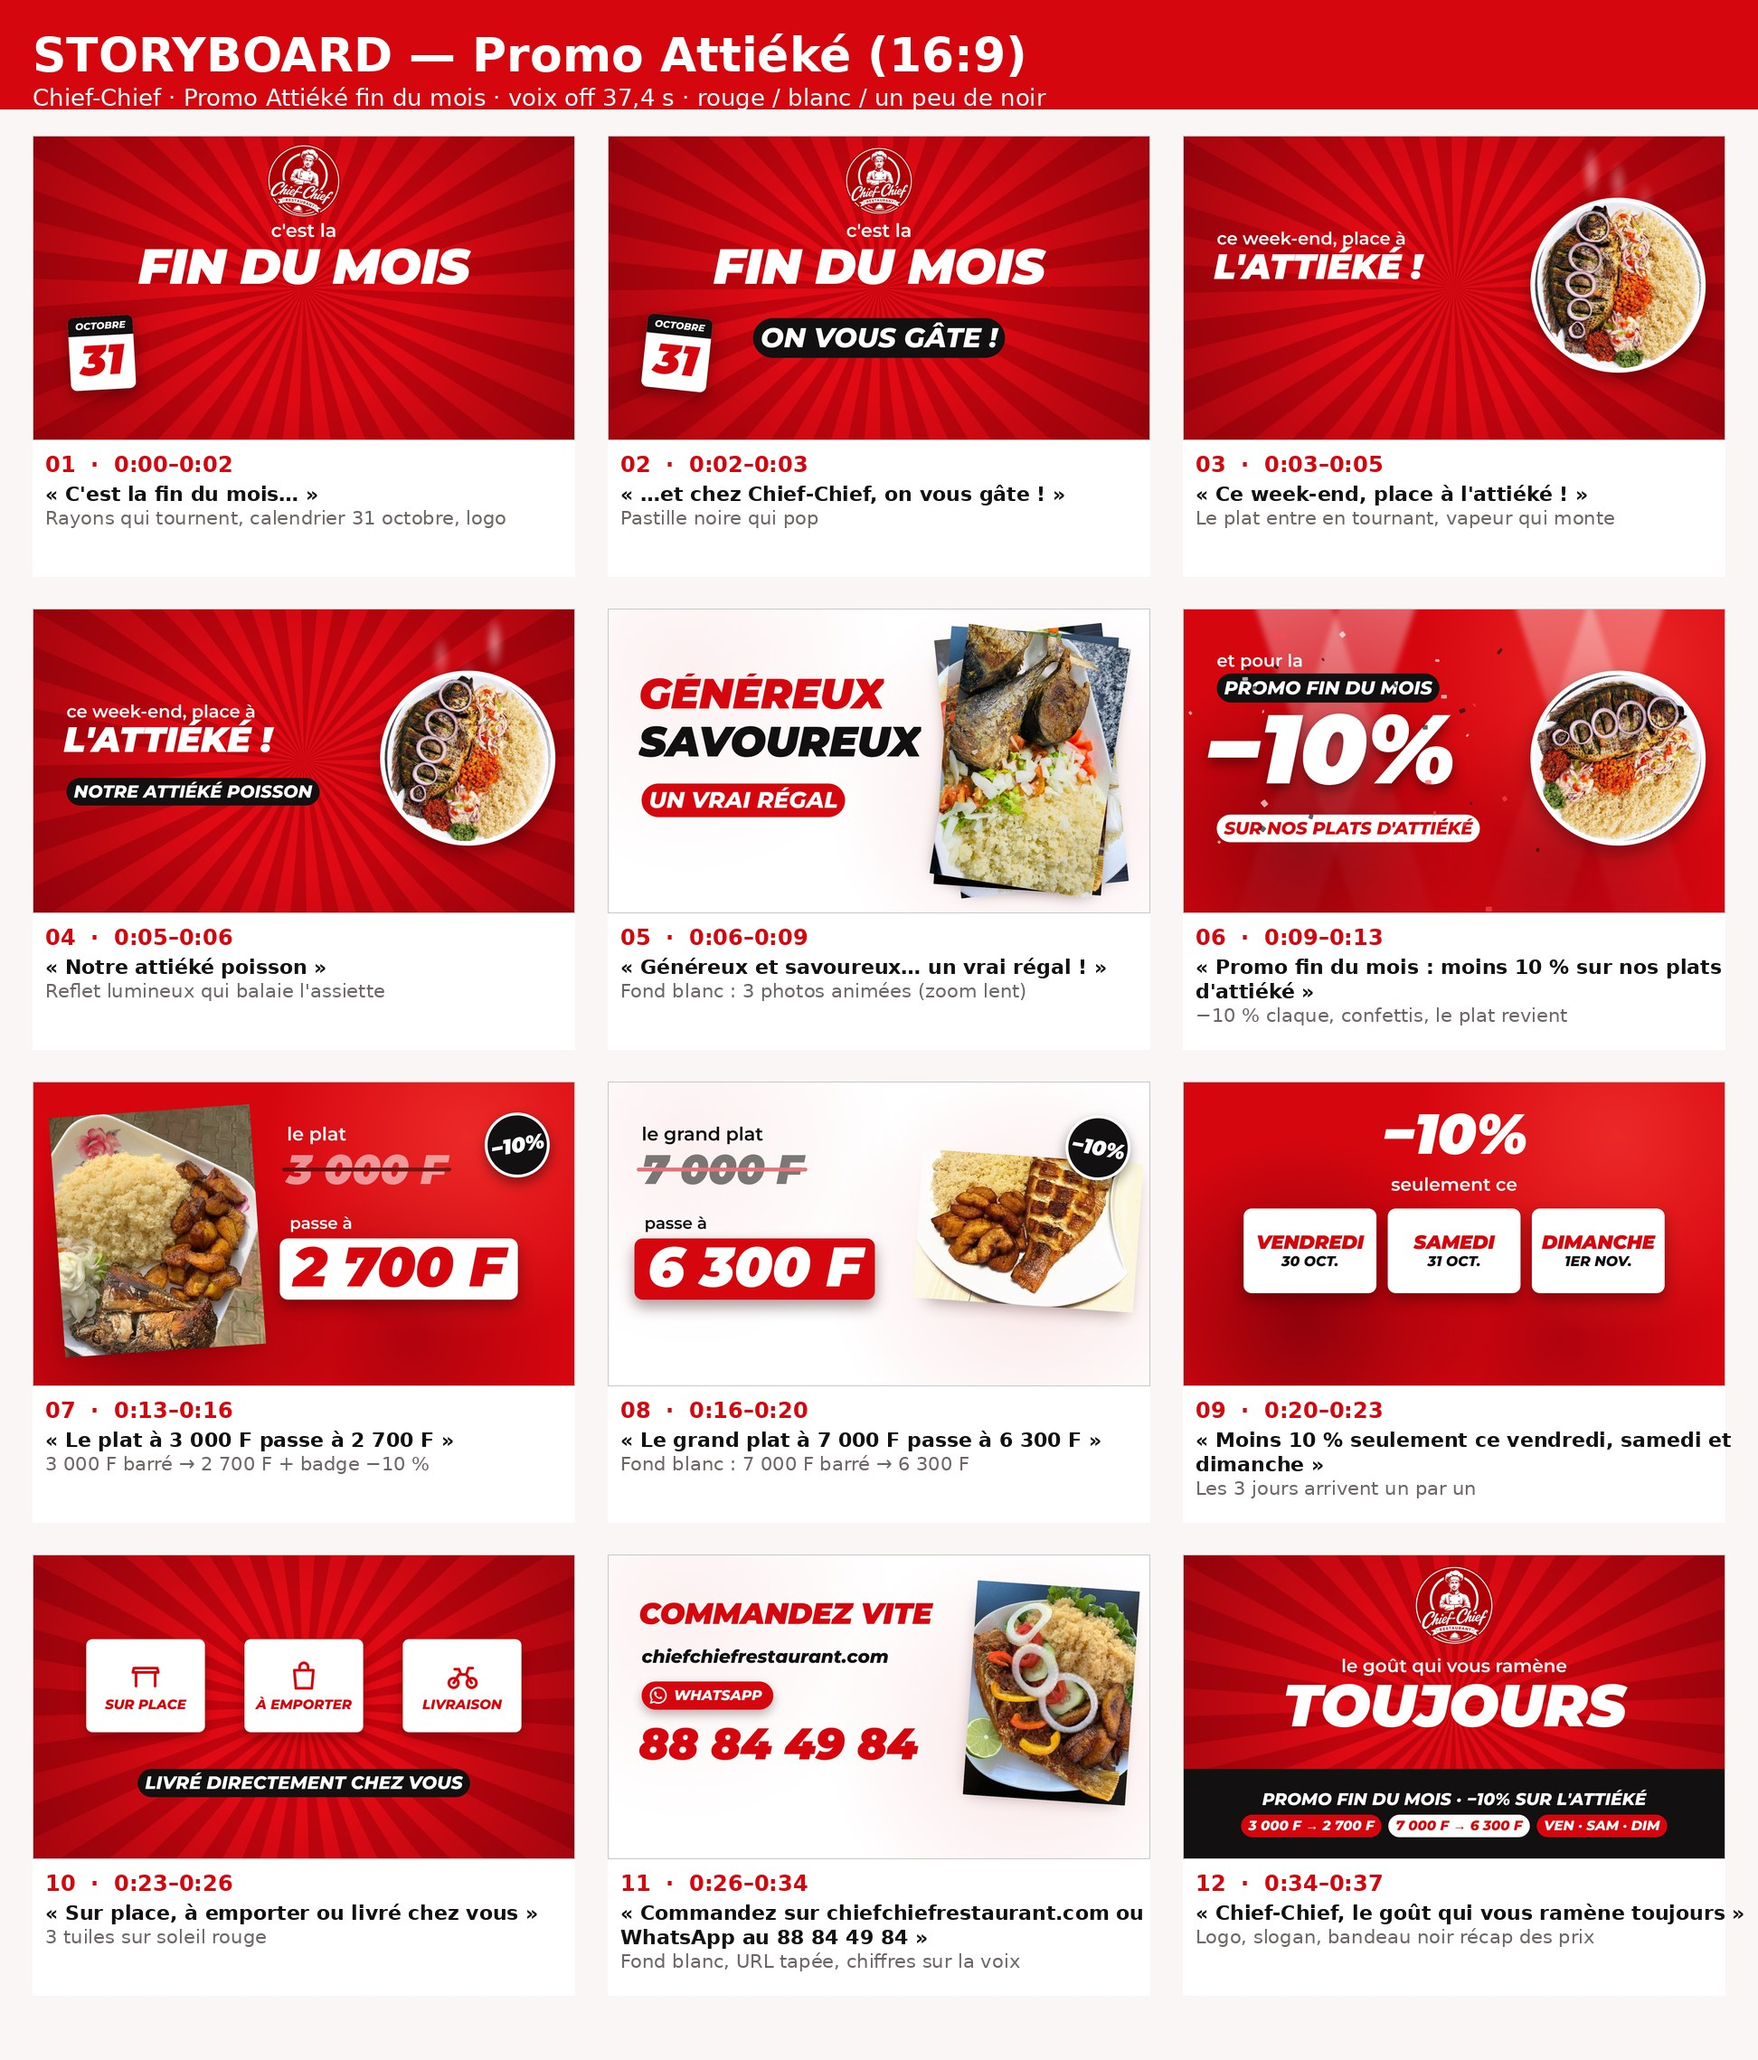
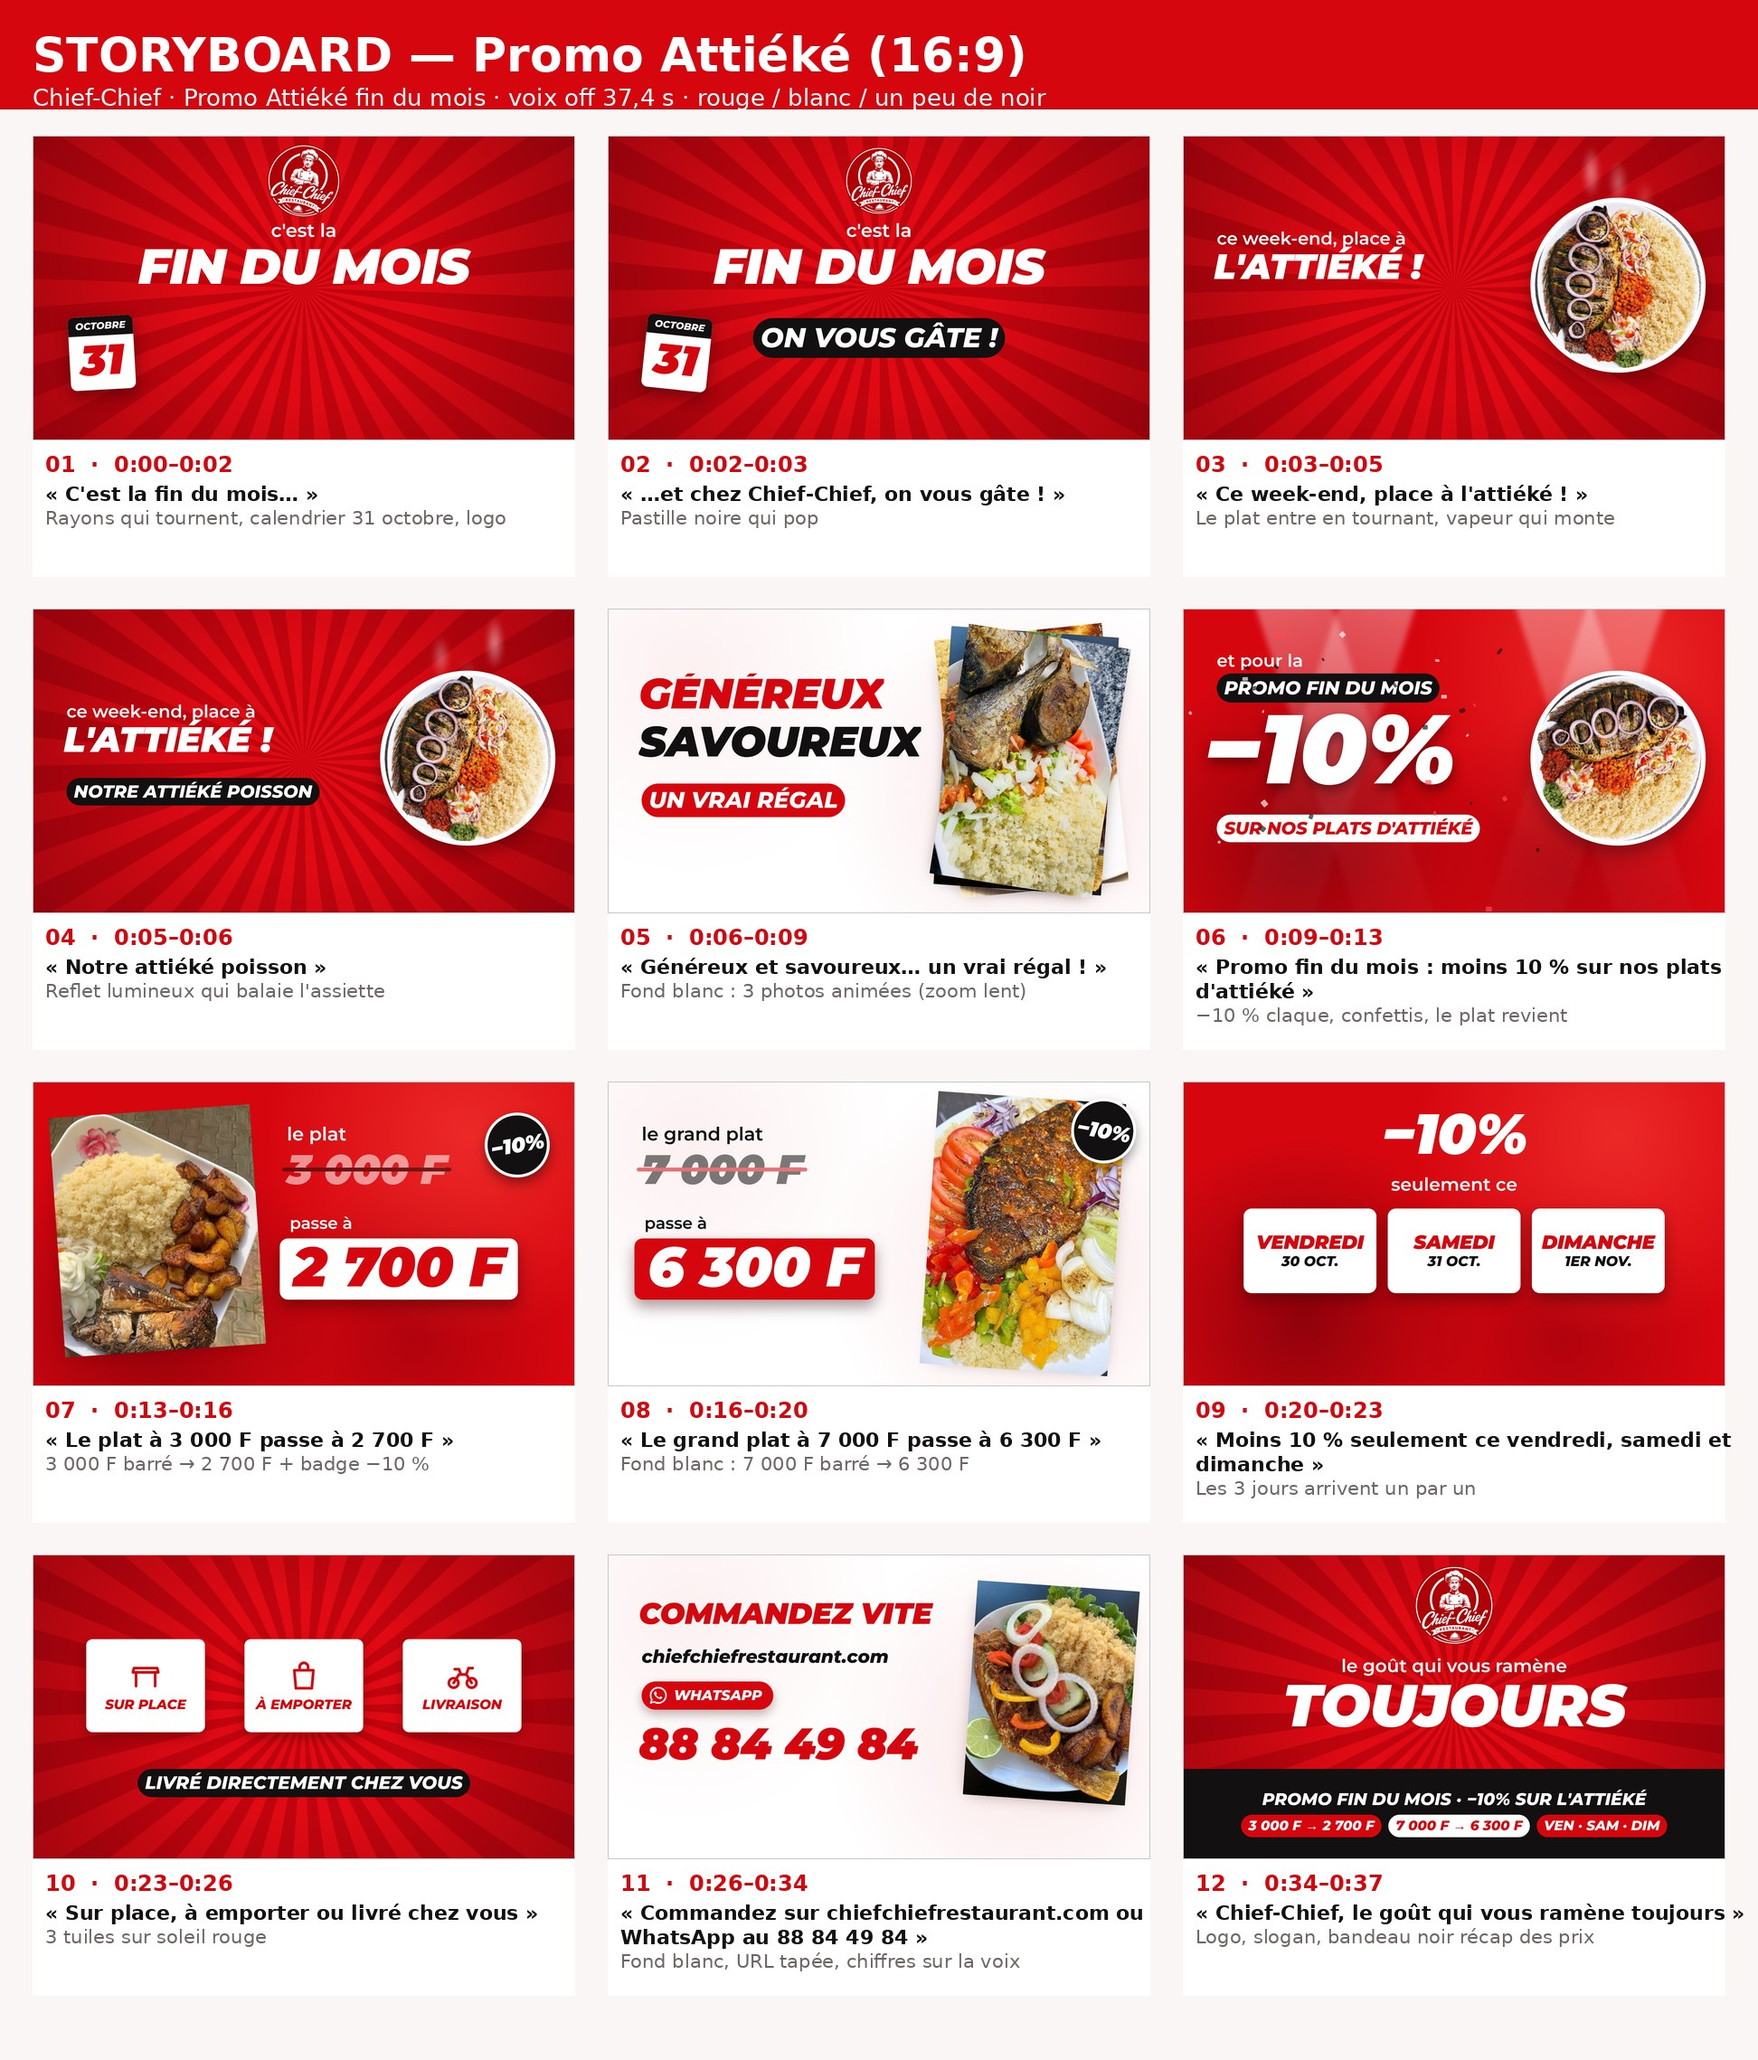
Chief-Chief Promo Attiéké: big capitaine fish photo for the 7000 F plate
Claude-Session: https://claude.ai/code/session_01AsMsVoFrh6FRVmPwA8HE3A

diff --git a/videos/chief-chief-attieke/index.html b/videos/chief-chief-attieke/index.html
@@ -52,9 +52,9 @@ html, body { width: 1920px; height: 1080px; overflow: hidden; background: #d6060
 #s5-lead { left: 900px; top: 150px; font-size: 66px; } #s5-old { left: 900px; top: 230px; }
 #s5-arrow { left: 910px; top: 470px; font-size: 58px; } #s5-new { left: 890px; top: 560px; } #s5-badge { left: 1600px; top: 110px; }
 /* S6 */
-#s6-card { left: 1150px; top: 290px; width: 700px; height: 480px; }
+#s6-card { left: 1180px; top: 110px; width: 600px; height: 860px; }
 #s6-lead { left: 120px; top: 150px; font-size: 66px; } #s6-old { left: 120px; top: 230px; }
-#s6-arrow { left: 130px; top: 470px; font-size: 58px; } #s6-new { left: 110px; top: 560px; } #s6-badge { left: 1620px; top: 120px; }
+#s6-arrow { left: 130px; top: 470px; font-size: 58px; } #s6-new { left: 110px; top: 560px; } #s6-badge { left: 1640px; top: 60px; }
 /* S7 */
 #s7-pct { top: 90px; font-size: 200px; } #s7-lead { top: 330px; font-size: 64px; }
 #s7-days { top: 450px; display: flex; justify-content: center; gap: 40px; }
@@ -104,7 +104,7 @@ html, body { width: 1920px; height: 1080px; overflow: hidden; background: #d6060
       <!-- S3 · Généreux, savoureux, un vrai régal (6.3 – 9.2) · BLANC -->
       <section id="s3" class="clip scene" data-start="6.3" data-duration="2.95" data-track-index="1">
         <div class="bg-white"></div>
-        <div id="s3-c1" class="card"><img src="assets/cut/a5-card.jpg" alt="" /></div>
+        <div id="s3-c1" class="card"><img src="assets/cut/a3-card.jpg" alt="" /></div>
         <div id="s3-c2" class="card"><img src="assets/cut/a4-card.jpg" alt="" /></div>
         <div id="s3-c3" class="card"><img src="assets/cut/a6-card.jpg" alt="" /></div>
         <div id="s3-w1" class="abs big c-red">généreux</div>
@@ -137,7 +137,7 @@ html, body { width: 1920px; height: 1080px; overflow: hidden; background: #d6060
       <!-- S6 · Le grand plat 7000 → 6300 (16.2 – 19.85) · BLANC -->
       <section id="s6" class="clip scene" data-start="16.2" data-duration="3.7" data-track-index="1">
         <div class="bg-white"></div>
-        <div id="s6-card" class="card"><img src="assets/cut/a3-card.jpg" alt="" /></div>
+        <div id="s6-card" class="card"><img src="assets/cut/a5-card.jpg" alt="Grand plat attiéké poisson capitaine" style="object-position: 50% 30%" /></div>
         <div id="s6-lead" class="abs lead c-ink">le grand plat</div>
         <div id="s6-old" class="abs price-old dark"><span class="big">7 000 F</span><i class="strike"></i></div>
         <div id="s6-arrow" class="abs lead c-ink">passe à</div>

diff --git a/videos/chief-chief-attieke/src/body.html b/videos/chief-chief-attieke/src/body.html
@@ -23,7 +23,7 @@
       <!-- S3 · Généreux, savoureux, un vrai régal (6.3 – 9.2) · BLANC -->
       <section id="s3" class="clip scene" data-start="6.3" data-duration="2.95" data-track-index="1">
         <div class="bg-white"></div>
-        <div id="s3-c1" class="card"><img src="assets/cut/a5-card.jpg" alt="" /></div>
+        <div id="s3-c1" class="card"><img src="assets/cut/a3-card.jpg" alt="" /></div>
         <div id="s3-c2" class="card"><img src="assets/cut/a4-card.jpg" alt="" /></div>
         <div id="s3-c3" class="card"><img src="assets/cut/a6-card.jpg" alt="" /></div>
         <div id="s3-w1" class="abs big c-red">généreux</div>
@@ -56,7 +56,7 @@
       <!-- S6 · Le grand plat 7000 → 6300 (16.2 – 19.85) · BLANC -->
       <section id="s6" class="clip scene" data-start="16.2" data-duration="3.7" data-track-index="1">
         <div class="bg-white"></div>
-        <div id="s6-card" class="card"><img src="assets/cut/a3-card.jpg" alt="" /></div>
+        <div id="s6-card" class="card"><img src="assets/cut/a5-card.jpg" alt="Grand plat attiéké poisson capitaine" style="object-position: 50% 30%" /></div>
         <div id="s6-lead" class="abs lead c-ink">le grand plat</div>
         <div id="s6-old" class="abs price-old dark"><span class="big">7 000 F</span><i class="strike"></i></div>
         <div id="s6-arrow" class="abs lead c-ink">passe à</div>

diff --git a/videos/chief-chief-attieke/src/layout.css b/videos/chief-chief-attieke/src/layout.css
@@ -43,9 +43,9 @@ html, body { width: 1920px; height: 1080px; overflow: hidden; background: #d6060
 #s5-lead { left: 900px; top: 150px; font-size: 66px; } #s5-old { left: 900px; top: 230px; }
 #s5-arrow { left: 910px; top: 470px; font-size: 58px; } #s5-new { left: 890px; top: 560px; } #s5-badge { left: 1600px; top: 110px; }
 /* S6 */
-#s6-card { left: 1150px; top: 290px; width: 700px; height: 480px; }
+#s6-card { left: 1180px; top: 110px; width: 600px; height: 860px; }
 #s6-lead { left: 120px; top: 150px; font-size: 66px; } #s6-old { left: 120px; top: 230px; }
-#s6-arrow { left: 130px; top: 470px; font-size: 58px; } #s6-new { left: 110px; top: 560px; } #s6-badge { left: 1620px; top: 120px; }
+#s6-arrow { left: 130px; top: 470px; font-size: 58px; } #s6-new { left: 110px; top: 560px; } #s6-badge { left: 1640px; top: 60px; }
 /* S7 */
 #s7-pct { top: 90px; font-size: 200px; } #s7-lead { top: 330px; font-size: 64px; }
 #s7-days { top: 450px; display: flex; justify-content: center; gap: 40px; }
